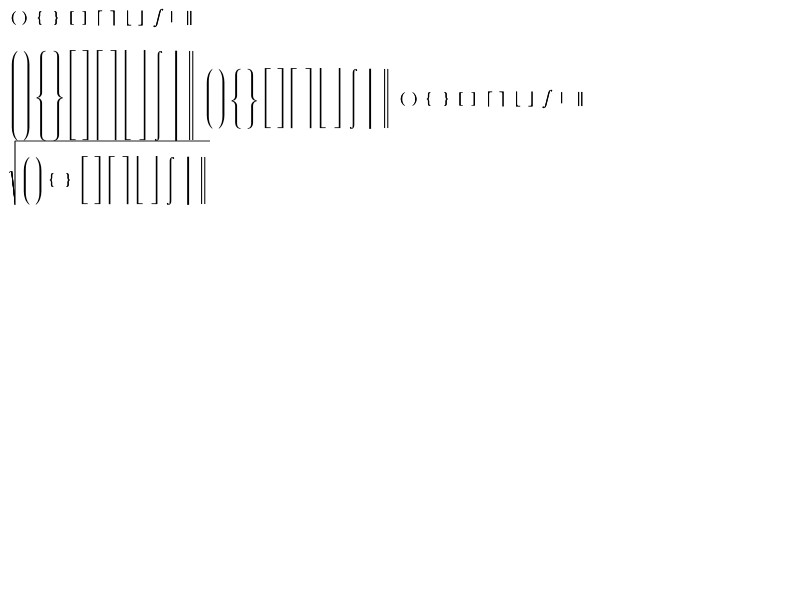
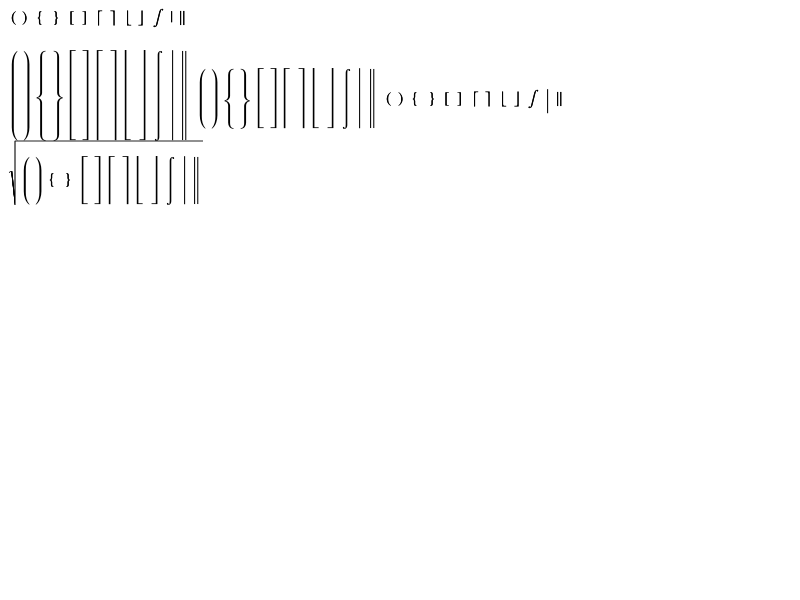
[MathML] Poor spacing around delimiters in MathML Torture Test 14 https://bugs.webkit.org/show_bug.cgi?id=122837
Reviewed by Brent Fulgham.

Instead of stretching the vertical bar with the stretchable version, just repeat
the normal vertical bar. This follows what Gecko does when rendering tall vertical
bars and also works around an issue with STIX fonts leading to poor spacing in
formulas.

Source/WebCore:

* rendering/mathml/RenderMathMLOperator.cpp: Stretch the vertical bar with the
normal variant.

LayoutTests:

* platform/gtk/mathml/presentation/mo-stretch-expected.png: Update to reflect new results.
* platform/gtk/mathml/presentation/mo-stretch-expected.txt: Ditto.
* platform/mac/mathml/presentation/mo-stretch-expected.png: Ditto.
* platform/mac/mathml/presentation/mo-stretch-expected.txt: Ditto.

Identifier: 142304@main
git-svn-id: https://svn.webkit.org/repository/webkit/trunk@159007 268f45cc-cd09-0410-ab3c-d52691b4dbfc

Changed region(s): [[0.2188, 0.09, 0.75, 0.24], [0.2188, 0.27, 0.2812, 0.36], [0.2188, 0.0, 0.25, 0.06]]

diff --git a/Source/WebCore/rendering/mathml/RenderMathMLOperator.cpp b/Source/WebCore/rendering/mathml/RenderMathMLOperator.cpp
@@ -56,7 +56,7 @@ static RenderMathMLOperator::StretchyCharacter stretchyCharacters[13] = {
     { 0x2309, 0x23a4, 0x23a5, 0x23a5, 0x0    }, // right ceiling
     { 0x230b, 0x23a5, 0x23a5, 0x23a6, 0x0    }, // right floor
     { 0x7b  , 0x23a7, 0x23aa, 0x23a9, 0x23a8 }, // left curly bracket
-    { 0x7c  , 0x23aa, 0x23aa, 0x23aa, 0x0    }, // vertical bar
+    { 0x7c  , 0x7c,   0x7c,   0x7c,   0x0    }, // vertical bar
     { 0x2016, 0x2016, 0x2016, 0x2016, 0x0    }, // double vertical line
     { 0x7d  , 0x23ab, 0x23aa, 0x23ad, 0x23ac }, // right curly bracket
     { 0x222b, 0x2320, 0x23ae, 0x2321, 0x0    } // integral sign
